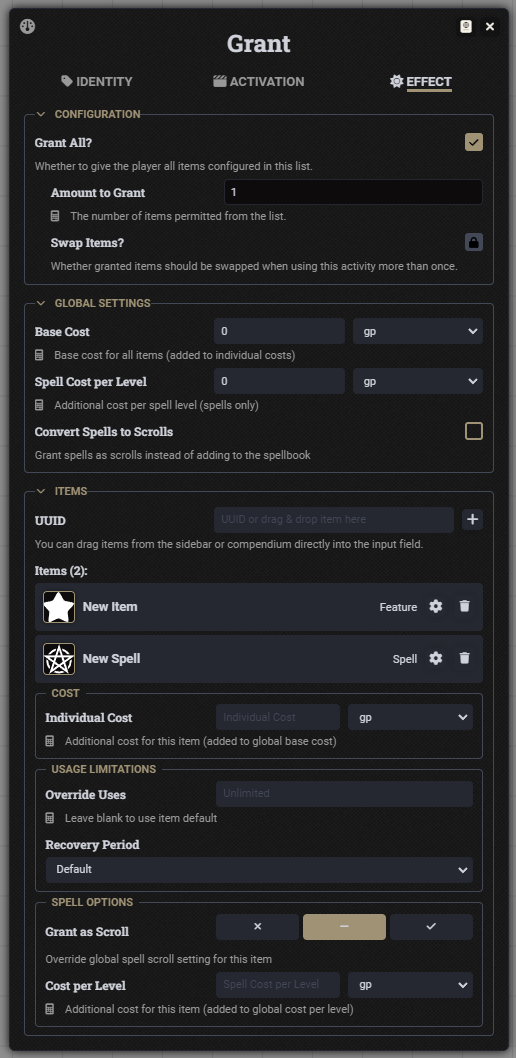
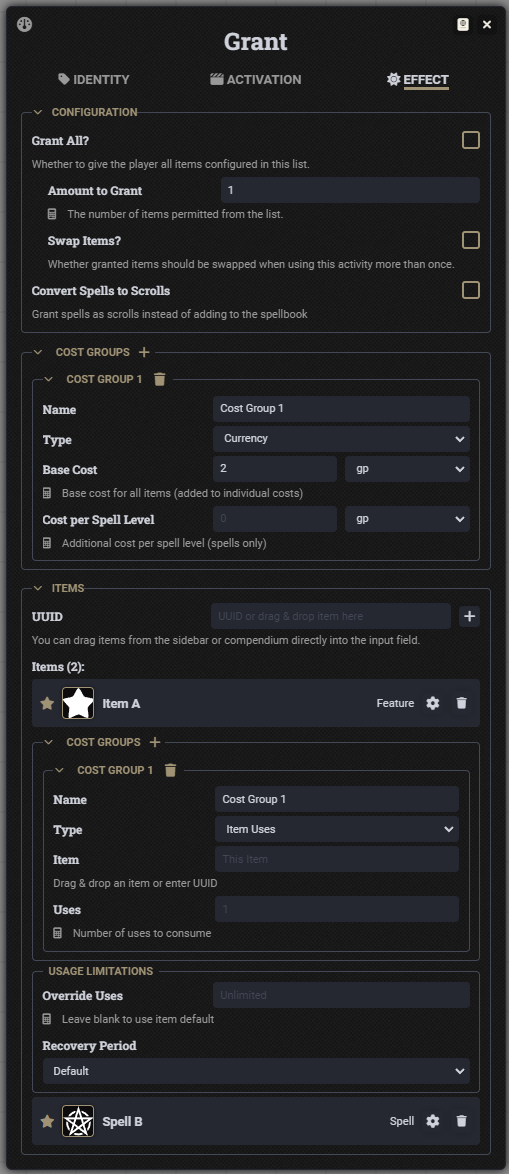
Version 1.8.2

Changed region(s): [[0.0, 0.0, 1.0, 1.0], [0.7367, 0.0624, 0.8841, 0.0936]]

diff --git a/README.md b/README.md
@@ -1,6 +1,6 @@
 ## More Activities - Now with V12 Support!
 
-![Latest](https://img.shields.io/badge/Module%20Version:%201.8.1-187c19?style=for-the-badge&logo=foundryvirtualtabletop&logoColor=white)
+![Latest](https://img.shields.io/badge/Module%20Version:%201.8.2-187c19?style=for-the-badge&logo=foundryvirtualtabletop&logoColor=white)
 
 An extension to the D&D 5E system for FoundryVTT Version 12 and 13 that provides additional activity types.
 
@@ -28,14 +28,28 @@ An extension to the D&D 5E system for FoundryVTT Version 12 and 13 that provides
 - **darkanx:** Suggestion for *Chain*, *Teleport*, *Movement*, *Grant* and *Wall* Activities
 - **TPNils:** Improvement for *Grant* Activity
 - **ljstrings:** Improvement for *Movement* Activity
+- **SRR8:** Improvement for *Grant* Activity
 - **darkanx, alterNERDtive, WelpM8:** Highlighting bugs in this module
 
 ## 🚫 Breaking Changes
 
-- **Version 1.4.0 ➡ 1.5.0:**
+All future versions of **More Activities** will support migration of data structures. Eventually, old data schemas will be removed, so please review the below for substantial changes to determine if you need to upgrade incrementally, rather than directly from a sufficiently old version.
+
+- 🛟 **Version 1.8.1 ➡ 1.8.2**
+    - *Grant Activity:*
+        - Introduction of Cost Groups to replace singular currency cost application
+        - Old implementation still currently supported, but will be removed in a future release
+
+- 🛟 **Version 1.7.3 ➡ 1.8.0**
+    - *Contested Activity:*
+        - Introduction of Effect Groups to replace singular effect application
+        - Old implementation still currently supported, but will be removed in a future release
+
+- ⚠ **Version 1.4.0 ➡ 1.5.0:**
     - *Hook Activity:*
         - `dnd5e.rollAbilitySave` replaced with (correct) `dnd5e.rollSavingThrow` hook
         - `dnd5e.rollAbilityTest` replaced with (correct) `dnd5e.rollAbilityCheck` hook
+        - Upgrading from v1.4.0 or older to v1.5.0 could result in breaks to the *Hook* activity
 
 ## 🚀 Quick Start
 
